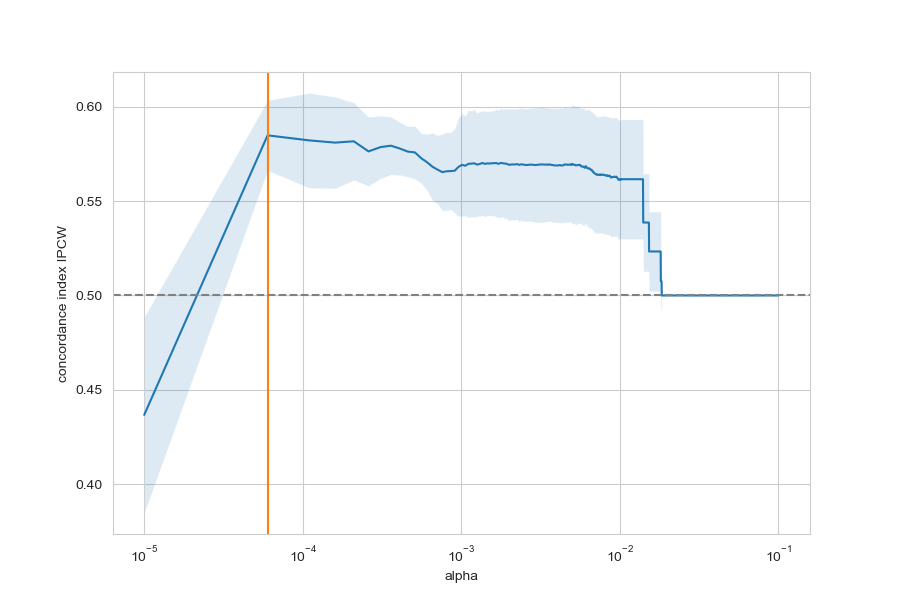
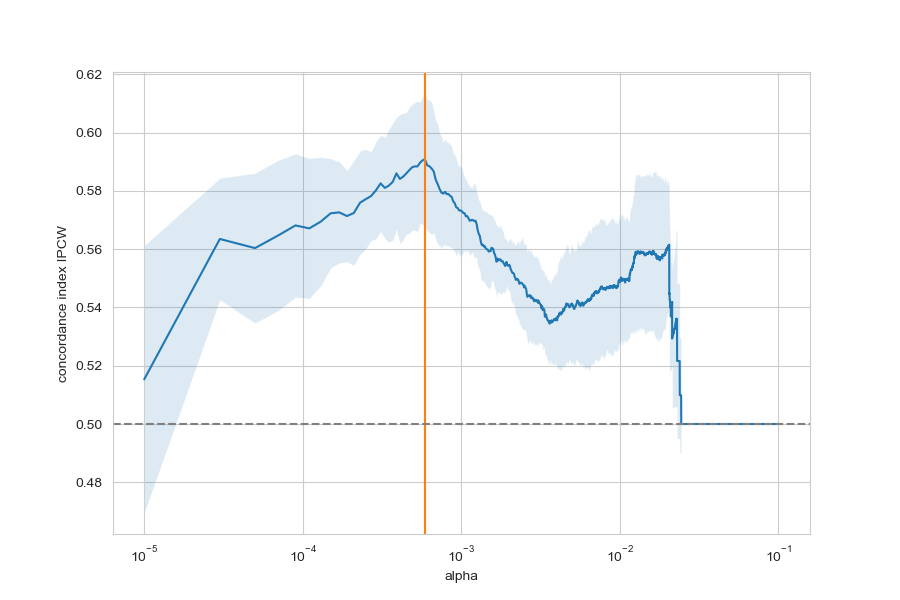
StepLR + some fixes

diff --git a/Implementation/Logic/Autoencoders/MinWorkingExample.py b/Implementation/Logic/Autoencoders/MinWorkingExample.py
@@ -1,7 +1,6 @@
 from typing import Type
 
 import torch
-import math
 
 
 class MWE_AE(torch.nn.Module):
@@ -11,56 +10,29 @@ class MWE_AE(torch.nn.Module):
 
         print("Initializing Minimal Working Example AE with input dim: ", input_dim)
 
-
         self.encoder = torch.nn.Sequential(
-            torch.nn.Linear(input_dim, 2500),
-            torch.nn.BatchNorm1d(2500),
-            torch.nn.ReLU(),
-            torch.nn.Dropout(0.1),
-            torch.nn.Linear(2500,2000),
-            torch.nn.BatchNorm1d(2000),
-            torch.nn.ReLU(),
-            torch.nn.Dropout(0.1),
-            torch.nn.Linear(2000, 1500),
-            torch.nn.BatchNorm1d(1500),
-            torch.nn.ReLU(),
-            torch.nn.Dropout(0.1),
-            torch.nn.Linear(1500,1000),
-            torch.nn.BatchNorm1d(1000),
-            torch.nn.ReLU(),
-            torch.nn.Dropout(0.1),
-            torch.nn.Linear(1000,500),
-            torch.nn.BatchNorm1d(500),
-            torch.nn.ReLU(),
-            torch.nn.Dropout(0.1),
-            torch.nn.Linear(500,L),
-            torch.nn.BatchNorm1d(L),
+            custom_block(input_dim, 3000),
+            custom_block(3000, 2500),
+            custom_block(2500, 2000),
+            custom_block(2000, 1500),
+            custom_block(1500, 1200),
+            custom_block(1200, 1000),
+            custom_block(1000, 800),
+            custom_block(800, 600),
+            custom_block(600, L),
             torch.nn.Sigmoid()
         )
 
         self.decoder = torch.nn.Sequential(
-            torch.nn.Linear(L,500),
-            torch.nn.BatchNorm1d(500),
-            torch.nn.ReLU(),
-            torch.nn.Dropout(0.1),
-            torch.nn.Linear(500,1000),
-            torch.nn.BatchNorm1d(1000),
-            torch.nn.ReLU(),
-            torch.nn.Dropout(0.1),
-            torch.nn.Linear(1000, 1500),
-            torch.nn.BatchNorm1d(1500),
-            torch.nn.ReLU(),
-            torch.nn.Dropout(0.1),
-            torch.nn.Linear(1500,2000),
-            torch.nn.BatchNorm1d(2000),
-            torch.nn.ReLU(),
-            torch.nn.Dropout(0.1),
-            torch.nn.Linear(2000,2500),
-            torch.nn.BatchNorm1d(2500),
-            torch.nn.ReLU(),
-            torch.nn.Dropout(0.1),
-            torch.nn.Linear(2500, input_dim),
-            torch.nn.BatchNorm1d(input_dim),
+            custom_block(L, 600),
+            custom_block(600, 800),
+            custom_block(800, 1000),
+            custom_block(1000, 1200),
+            custom_block(1200, 1500),
+            custom_block(1500, 2000),
+            custom_block(2000, 2500),
+            custom_block(2500, 3000),
+            custom_block(3000, input_dim),
             torch.nn.Sigmoid()
         )
 
@@ -72,3 +44,12 @@ class MWE_AE(torch.nn.Module):
 
     def get_latent_space(self, x):
         return self.encoder(x)
+
+
+def custom_block(input_dim, output_dim, dropout_rate=0.1):
+    return torch.nn.Sequential(
+        torch.nn.Linear(input_dim, output_dim),
+        torch.nn.BatchNorm1d(output_dim),
+        torch.nn.PReLU(),
+        torch.nn.Dropout(dropout_rate)
+    )

diff --git a/Implementation/Logic/Trainer.py b/Implementation/Logic/Trainer.py
@@ -8,6 +8,7 @@ from sklearn.metrics import mean_squared_error
 from sklearn.model_selection import KFold, GridSearchCV
 from sksurv.linear_model import CoxnetSurvivalAnalysis
 from sksurv.metrics import cumulative_dynamic_auc, as_concordance_index_ipcw_scorer
+from torch.optim.lr_scheduler import StepLR
 
 from Logic.TrainingModel import TrainingModel
 import numpy as np
@@ -44,6 +45,8 @@ class Trainer:
         best_epoch = -1
         tr_losses = []
         val_losses = []
+        scheduler = StepLR(tr_model.optim, step_size=tr_model.epochs // 3, gamma=0.1)
+
         for t in range(tr_model.epochs + 1):
             tr_model.model.train()
             num_train_batches = len(tr_model.X_train)
@@ -72,28 +75,30 @@ class Trainer:
                 # Zero gradients, backward pass, and update parameters
                 tr_model.optim.zero_grad()
                 loss.backward()
-
                 tr_model.optim.step()
-
 
             valid_loss = 0.0
             tr_model.model.eval()
             num_val_batches = len(tr_model.X_val)
-            for b in range(num_val_batches):
-                x_batch = torch.tensor(tr_model.X_train[b]).to(self.device)
-                y_batch = torch.tensor(tr_model.y_train[b]).to(self.device)
-                x_pred_batch = None
-                mu = None
-                log_var = None
-                # Perform forward pass
-                if (tr_model.variational):
-                    x_pred_batch, mu, log_var = tr_model.model.forward(x_batch)
-                else:
-                    x_pred_batch = tr_model.model.forward(x_batch)
+            with torch.no_grad():
+                for b in range(num_val_batches):
+                    x_batch = torch.tensor(tr_model.X_train[b]).to(self.device)
+                    y_batch = torch.tensor(tr_model.y_train[b]).to(self.device)
+                    x_pred_batch = None
+                    mu = None
+                    log_var = None
+                    # Perform forward pass
+                    if (tr_model.variational):
+                        x_pred_batch, mu, log_var = tr_model.model.forward(x_batch)
+                    else:
+                        x_pred_batch = tr_model.model.forward(x_batch)
 
-                # Compute loss for the entire batch
-                loss = tr_model.compute_model_loss(x_pred_batch, x_batch, mu, log_var)
-                valid_loss += loss.item()
+                    # Compute loss for the entire batch
+                    loss = tr_model.compute_model_loss(x_pred_batch, x_batch, mu, log_var)
+                    valid_loss += loss.item()
+
+            # call scheduler (+optimizer) after training and validation epoch
+            scheduler.step()
 
             avg_train_loss = train_loss / num_train_batches
             avg_valid_loss = valid_loss / num_val_batches
@@ -136,7 +141,7 @@ class Trainer:
 
         start = 0.00001
         stop = 0.1
-        step = 0.00005
+        step = 0.00002
         estimated_alphas = np.arange(start, stop + step, step)
 
         # we remove warnings when coefficients in Cox PH model are 0

diff --git a/Implementation/Logic/Main.py b/Implementation/Logic/Main.py
@@ -19,7 +19,7 @@ if __name__ == "__main__":
 
     torch.manual_seed(42)
     np.random.seed(42)
-    L = 300
+    L = 512
     #aeModel = AE(d.input_dim_train(), L)
 
     losses = [LossType.DENOISING, LossType.SPARSE_KL]
@@ -28,9 +28,9 @@ if __name__ == "__main__":
     aeModel = MWE_AE(d.input_dim_train(), L)
     vaeModel = VariationalExample(d.input_dim_train(), L)
     #aeModel = vaeModel
-    optim = torch.optim.Adam(aeModel.parameters(), lr = 0.01)
-    instanceModel = TrainingModel("TEST_DELETE", d.X_train_batch, d.Y_train_batch, d.X_test_batch, d.Y_test_batch,
-                                  d.X_val_batch, d.Y_val_batch, d.Y_dataframe, aeModel, loss_fn, optim, 6, d.fetch_columns(), L)#, 'best_model_loss_1478.pth')
+    optim = torch.optim.Adam(aeModel.parameters(), lr = 0.1)
+    instanceModel = TrainingModel("MWP_DENOISE+SPARSE", d.X_train_batch, d.Y_train_batch, d.X_test_batch, d.Y_test_batch,
+                                  d.X_val_batch, d.Y_val_batch, d.Y_dataframe, aeModel, loss_fn, optim, 100, d.fetch_columns(), L)#, 'best_model_loss_1478.pth')
 
     trainer = Trainer([instanceModel])
     trainer.trainAll()
